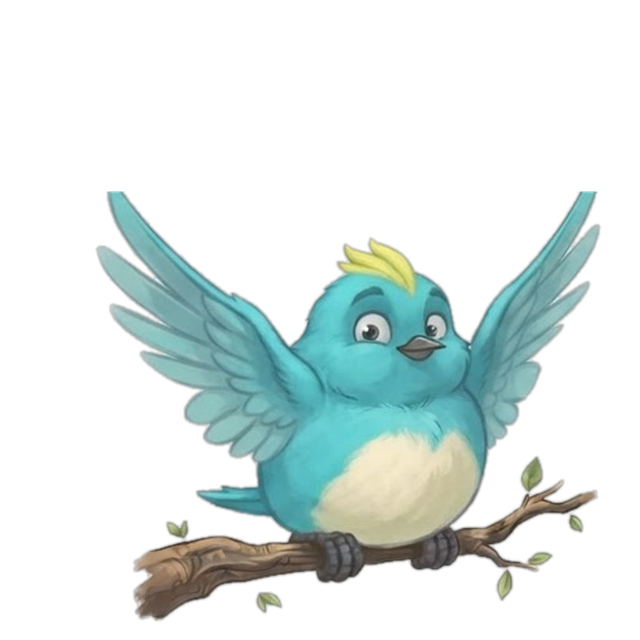
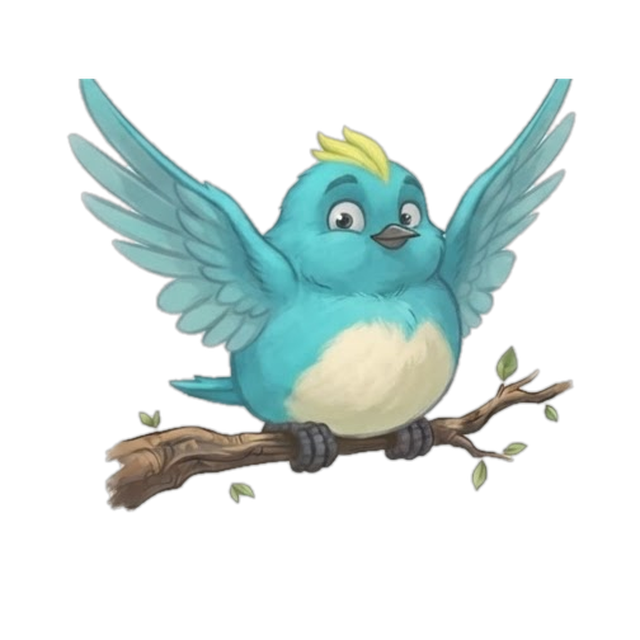
Oiseaux : images re-normalisées — pattes à 74 % pour les six, posées juste
- Les 20 images sont régénérées avec un ancrage sur les PATTES (le point le
  plus bas sous le corps), et non plus sur le bas du dessin : la queue qui
  pend ou la branche intégrée ne décalent plus l'oiseau, et le battement ne
  fait plus « sauter » le corps entre les poses.
- Pattes normalisées à 74 % de la hauteur pour les SIX oiseaux : une seule
  règle de placement dans le jeu (pattes = bas du bouton − 48 px), et tous
  touchent le dessus de leur branche, vert et rouge compris ; la branche
  intégrée du violet et du turquoise se pose naturellement sur la nôtre.

Claude-Session: https://claude.ai/code/session_01MuK8ZWeH8YiigUE4AMcK3J

diff --git a/desktop/MesPremiersJeux/Games/BirdSongGame.cs b/desktop/MesPremiersJeux/Games/BirdSongGame.cs
@@ -22,14 +22,17 @@ namespace MesPremiersJeux.Games
     {
         private const double W = 1500, H = 740;
 
-        // Branches à y = 400 et 700 ; les oiseaux sont posés DESSUS : le bas
-        // du bouton (230 px) affleure la branche, les pattes la touchent.
+        // Branches à y = 400 et 700. Les images des oiseaux sont normalisées :
+        // les PATTES sont à 74 % de la hauteur (soit 48 px au-dessus du bas du
+        // visuel de 185 px, calé en bas du bouton de 230 px). On place donc le
+        // bouton pour que les pattes touchent le dessus de la branche.
         private const double Branch1 = 400, Branch2 = 700;
+        private const double PerchY = 230 - 48 - 4; // pattes à 4 px DANS la branche
 
         private static readonly (string Emoji, double X, double Y)[] Perch =
         {
-            ("🐦", 150, Branch1 - 218), ("🐤", 620, Branch1 - 218), ("🦜", 1120, Branch1 - 218),
-            ("🦉", 320, Branch2 - 218), ("🐧", 780, Branch2 - 218), ("🦆", 1210, Branch2 - 218),
+            ("🐦", 150, Branch1 - PerchY), ("🐤", 620, Branch1 - PerchY), ("🦜", 1120, Branch1 - PerchY),
+            ("🦉", 320, Branch2 - PerchY), ("🐧", 780, Branch2 - PerchY), ("🦆", 1210, Branch2 - PerchY),
         };
 
         private Canvas _canvas;
